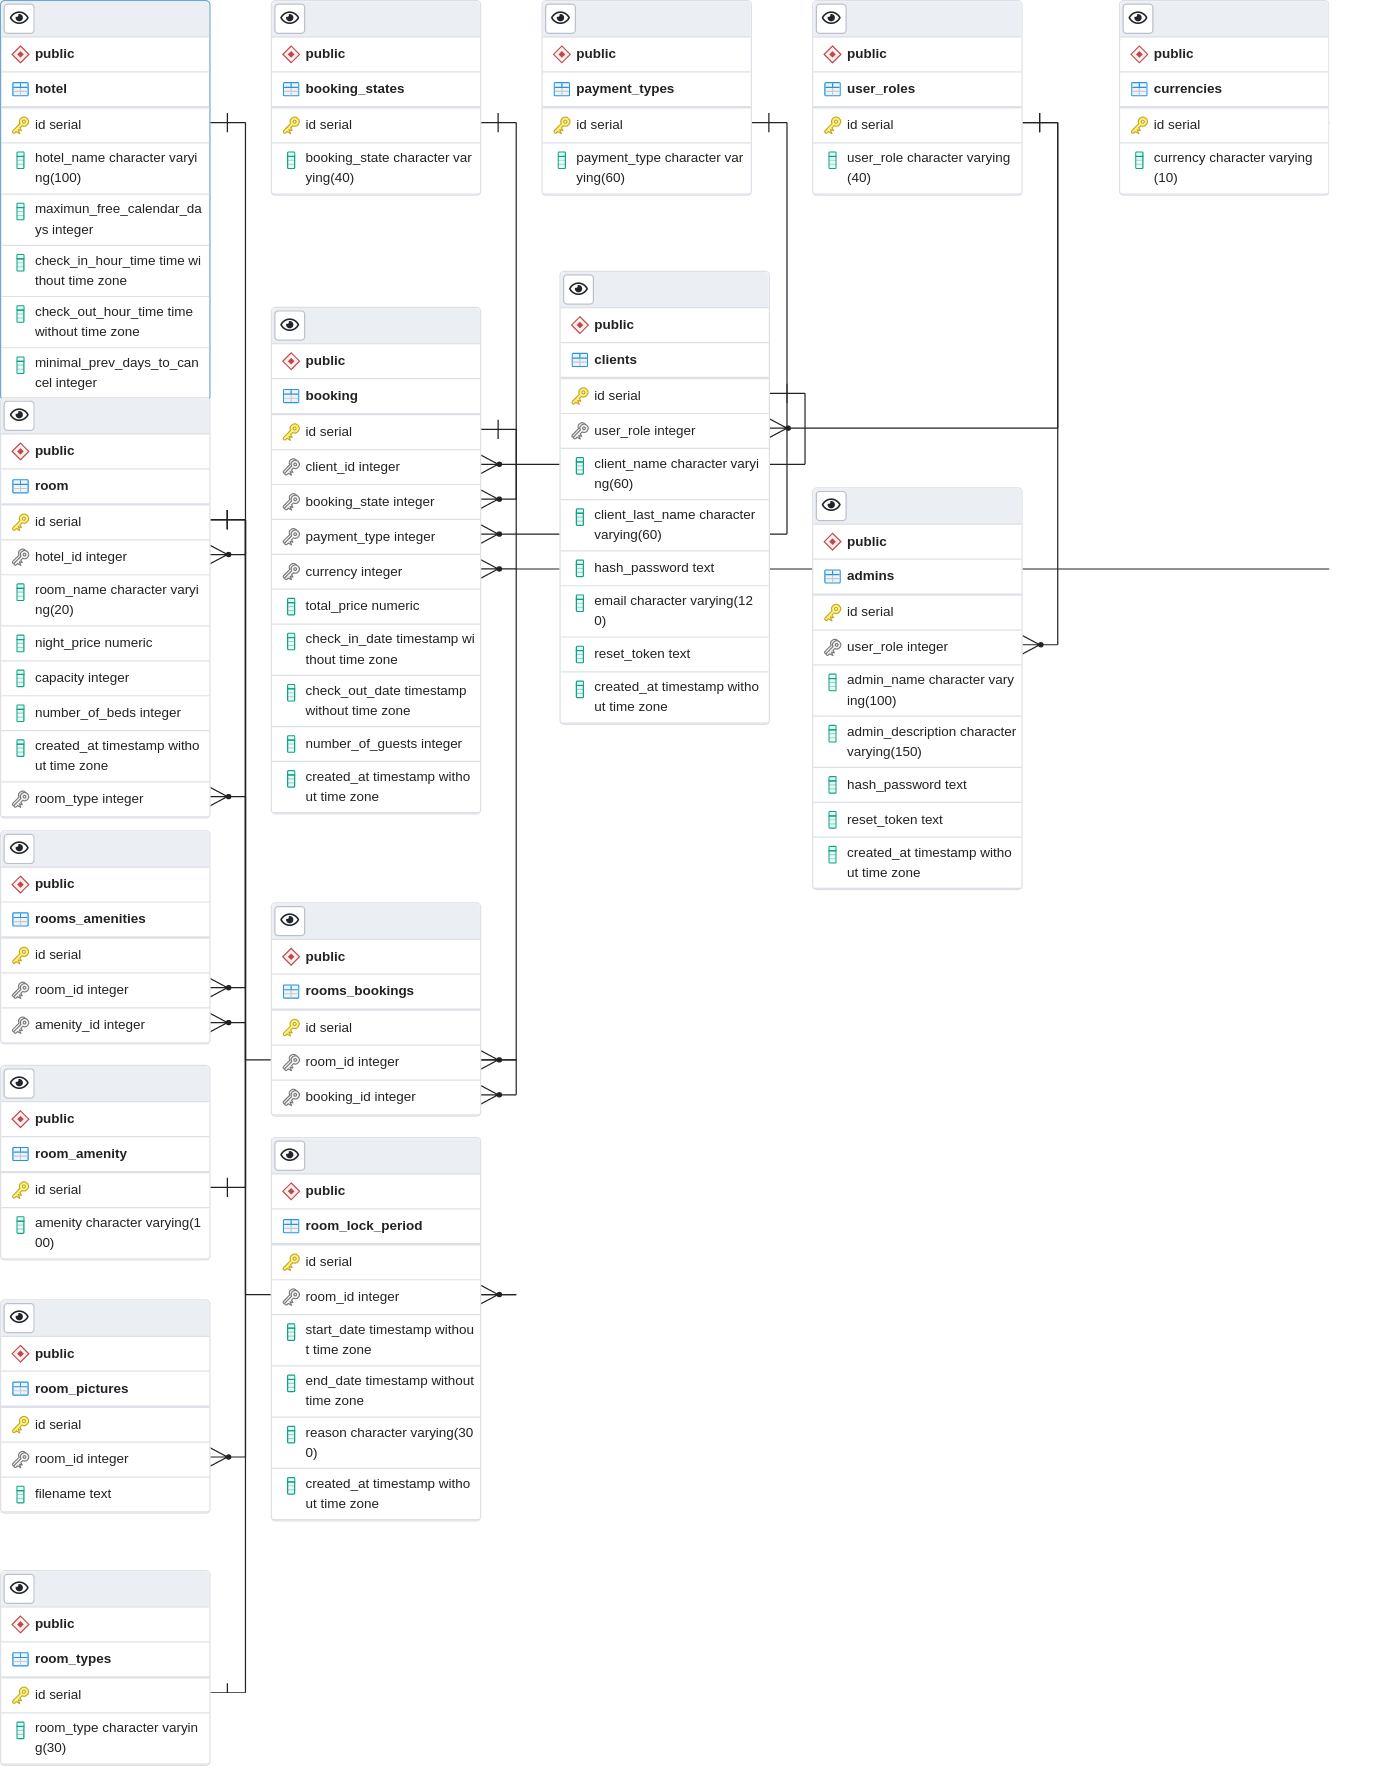
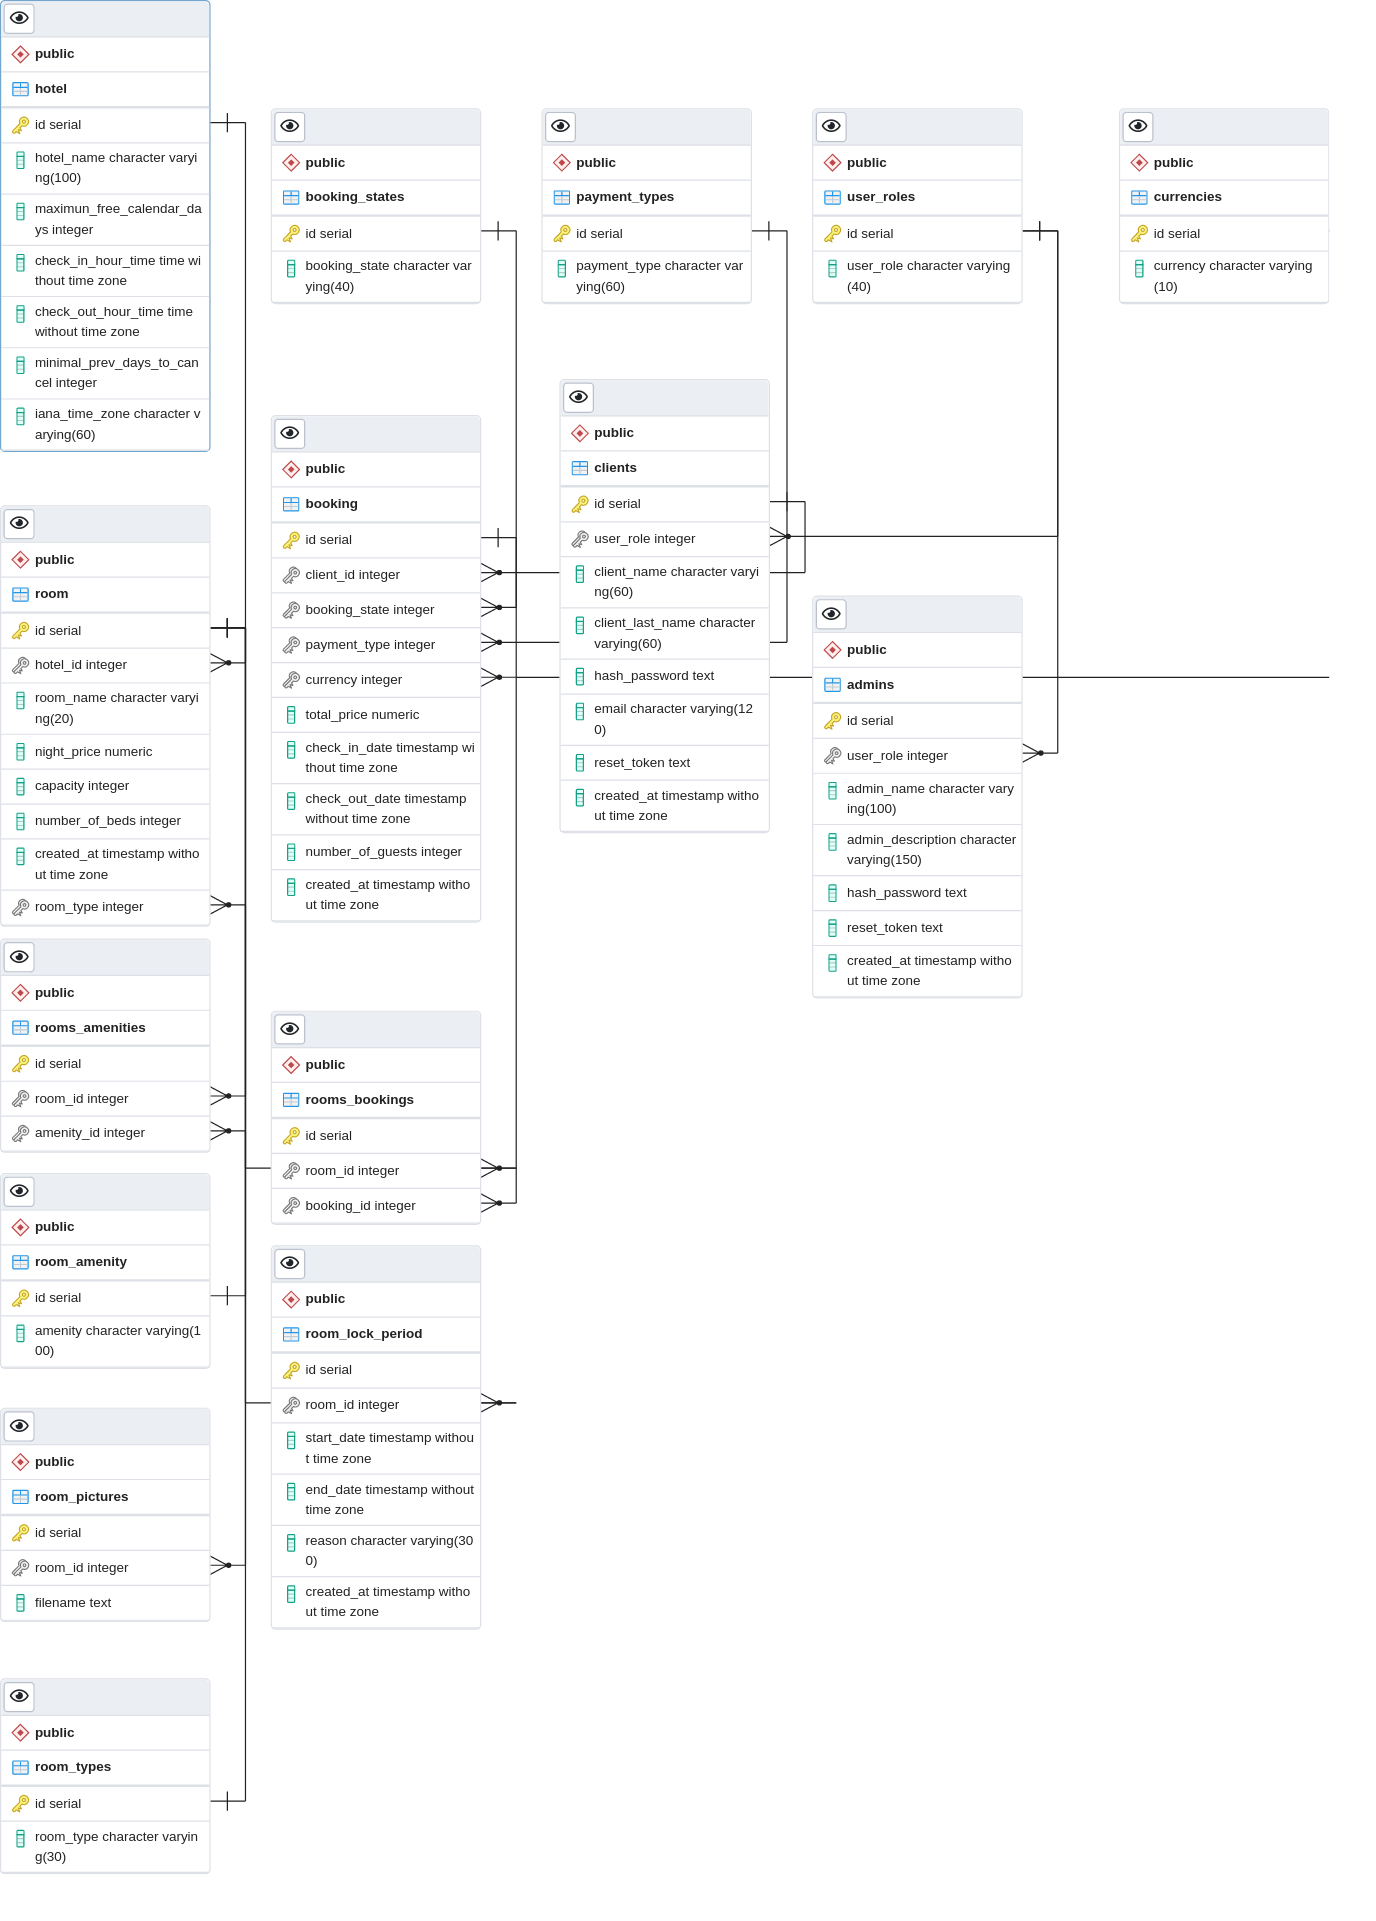
[feature] (graphql) Hotel TimeZone Integration

diff --git a/test/dao/HotelDao.test.js b/test/dao/HotelDao.test.js
@@ -8,7 +8,7 @@ import {
     updateHotelDaysToCancel,
     getHotelById,
 } from "dao/HotelDao";
-import { createHotel as createHotelS } from "~/services/hotel"
+import { createHotel as createHotelS, updateHotelTimeZone } from "~/services/hotel"
 const { createAdmin, deleteAdminById } = require("dao/UserDao");
 const { mapTimeToDateTime } = require("dao/utils");
 import { USER_ROLES } from '~/dao/DBConstans'
@@ -26,6 +26,7 @@ describe(
             check_in_hour_time: mapTimeToDateTime({ hours: 13, mins: 30 }),
             check_out_hour_time: mapTimeToDateTime({ hours: 12, mins: 0 }),
             minimal_prev_days_to_cancel: 5,
+            iana_time_zone:'America/Lima'
         }
 
         var updateHotelInput = {
@@ -34,6 +35,7 @@ describe(
             check_in_hour_time: mapTimeToDateTime({ hours: 5, mins: 30 }),
             check_out_hour_time: mapTimeToDateTime({ hours: 10, mins: 0 }),
             minimal_prev_days_to_cancel: 10,
+            iana_time_zone:'America/Lima'
         }
 
         var fullAdminData = {
@@ -69,6 +71,7 @@ describe(
                 expect(fooHotel.check_in_hour_time).toBeDefined();
                 expect(fooHotel.check_out_hour_time).toBeDefined();
                 expect(fooHotel.minimal_prev_days_to_cancel).toBeDefined();
+                expect(fooHotel.iana_time_zone).toBeDefined();
                 expect(dbError).toBe(null);
             }
         );
@@ -108,6 +111,9 @@ describe(
                     updatedFooHotel = await updateHotelFreeCalendarDays(fooHotel.id, 90);
                     // minimal_prev_days_to_cancel
                     updatedFooHotel = await updateHotelDaysToCancel(fooHotel.id, 10);
+                    // iana_time_zone
+                    updatedFooHotel = await updateHotelTimeZone(fooHotel.id, 'America/Havana');
+
 
                     // clean
                     await deleteHotelById(fooHotel.id);
@@ -152,6 +158,7 @@ describe(
                 expect(hotel.check_out_hour_time).toBe(hotelData.check_out_hour_time.toUTCString())
                 expect(hotel.maximun_free_calendar_days).toBe(hotelData.maximun_free_calendar_days)
                 expect(hotel.minimal_prev_days_to_cancel).toBe(hotelData.minimal_prev_days_to_cancel)
+                expect(hotel.iana_time_zone).toBe(hotelData.iana_time_zone)
             }
         )
 

diff --git a/src/dao/HotelDao.js b/src/dao/HotelDao.js
@@ -2,7 +2,7 @@ import { prisma } from 'dao/PrismaClient.js'
 import { isValidString } from 'utils'
 
 import { DB_UNIQUE_CONSTRAINT_ERROR, NOT_FOUND_RECORD_ERROR } from './Errors'
-import { isValidHotelName, isValidHourTime, isValidId, isValidInteger, mapHotelResToHotel } from './utils'
+import { isValidHotelName, isValidHourTime, isValidId, isValidInteger, isValidTimeZone, mapHotelResToHotel } from './utils'
 
 
 
@@ -21,6 +21,7 @@ export async function createHotel({
     check_in_hour_time, // hour_time { hour: 0 - 24 , min: 0 - 59 }
     check_out_hour_time,
     minimal_prev_days_to_cancel,
+    iana_time_zone
 }) {
     // validate
     if (!isValidHotelName(hotel_name)) {
@@ -42,6 +43,10 @@ export async function createHotel({
         throw new Error(`Non valid minimal_prev_days_to_cancel integer provided: ${minimal_prev_days_to_cancel}`)
     }
 
+    if (!isValidTimeZone(iana_time_zone)) {
+        throw new Error('Non Valid Time Zone provided')
+    }
+
 
 
     try {
@@ -53,6 +58,7 @@ export async function createHotel({
                 minimal_prev_days_to_cancel,
                 check_in_hour_time,
                 check_out_hour_time,
+                iana_time_zone
             }
         })
 
@@ -240,6 +246,32 @@ export async function updateHotelDaysToCancel(hotelId, minimal_prev_days_to_canc
             },
             data: {
                 minimal_prev_days_to_cancel
+            }
+        })
+
+        return mapHotelResToHotel(updatedRes);
+    } catch (error) {
+        throw error;
+    }
+}
+
+export async function updateHotelTimeZone(hotelId, iana_time_zone) {
+
+    // validate
+    if (!isValidId(hotelId)) {
+        throw new Error('Non Valid Hotel Id');
+    }
+    if (!isValidTimeZone(iana_time_zone)) {
+        throw new Error('Non Valid Time Zone provided')
+    }
+
+    try {
+        var updatedRes = await prisma.hotel.update({
+            where: {
+                id: hotelId
+            },
+            data: {
+                iana_time_zone
             }
         })
 

diff --git a/src/server/graphql/resolvers.js b/src/server/graphql/resolvers.js
@@ -15,7 +15,8 @@ import {
     updateHotelFreeCalendarDays,
     updateHotelDaysToCancel,
     updateHotelCheckInTime,
-    updateHotelCheckOutTime
+    updateHotelCheckOutTime,
+    updateHotelTimeZone
 } from "services/hotel";
 
 export const resolvers = {
@@ -169,6 +170,7 @@ export const resolvers = {
                         check_in_hour_time,
                         check_out_hour_time,
                         minimal_prev_days_to_cancel,
+                        iana_time_zone
                     } = args.input;
 
                     // sanitation
@@ -181,6 +183,7 @@ export const resolvers = {
                             check_in_hour_time: mapTimeToDateTime(check_in_hour_time),
                             check_out_hour_time: mapTimeToDateTime(check_out_hour_time),
                             minimal_prev_days_to_cancel,
+                            iana_time_zone
                         }
 
                         var hotel = await createHotel({
@@ -290,6 +293,26 @@ export const resolvers = {
                     try {
                         check_out_hour_time = mapTimeToDateTime(check_out_hour_time);
                         var hotel = await updateHotelCheckOutTime(hotel_id, check_out_hour_time);
+                        return hotel;
+                    } catch (error) {
+                        throw error;
+                    }
+
+                }
+            )
+        ),
+
+        updateHotelTimeZone: authenticated(
+            authorized(
+                USER_ROLES.FULL_ADMIN.user_role,
+                async (root, args, ctx) => {
+                    var {
+                        hotel_id,
+                        iana_time_zone,
+                    } = args.input;
+                    try {
+
+                        var hotel = await updateHotelTimeZone(hotel_id, iana_time_zone);
                         return hotel;
                     } catch (error) {
                         throw error;

diff --git a/src/services/hotel.js b/src/services/hotel.js
@@ -7,7 +7,8 @@ import {
     updateHotelCheckOutTime as updateHotelCheckOutTimeDao,
     updateHotelFreeCalendarDays as updateHotelFreeCalendarDaysDao,
     updateHotelDaysToCancel as updateHotelDaysToCancelDao,
-    getHotelById as getHotelByIdDao
+    getHotelById as getHotelByIdDao,
+    updateHotelTimeZone as updateHotelTimeZoneDao
 } from "dao/HotelDao";
 import { getAdminById } from "dao/UserDao";
 import { isFullAdmin } from "dao/utils";
@@ -18,7 +19,8 @@ export async function createHotel({
     maximun_free_calendar_days,
     check_in_hour_time,
     check_out_hour_time,
-    minimal_prev_days_to_cancel
+    minimal_prev_days_to_cancel,
+    iana_time_zone
 }) {
 
     // check for current userExecuting has autorization to 
@@ -39,7 +41,8 @@ export async function createHotel({
             maximun_free_calendar_days,
             check_in_hour_time,
             check_out_hour_time,
-            minimal_prev_days_to_cancel
+            minimal_prev_days_to_cancel,
+            iana_time_zone
         })
 
         return hotel
@@ -72,6 +75,12 @@ export async function updateHotelFreeCalendarDays(hotelId, maximun_free_calendar
 export async function updateHotelDaysToCancel(hotelId, minimal_prev_days_to_cancel) {
     return updateHotelDaysToCancelDao(hotelId, minimal_prev_days_to_cancel)
 }
+
+// 
+export async function updateHotelTimeZone(hotelId, iana_time_zone) {
+    return updateHotelTimeZoneDao(hotelId, iana_time_zone)
+}
+
 
 export async function getHotelById(hotelId) {
     return getHotelByIdDao(hotelId)

diff --git a/src/dao/utils.js b/src/dao/utils.js
@@ -69,6 +69,11 @@ export function isFullAdmin(user_role) {
 
 }
 
+// ---------------
+// VAlidators 
+// ---------------
+
+
 export function isValidEmail(email) {
     const emailSchema = Joi.string().email().required();
     const { error, value } = emailSchema.validate(
@@ -168,6 +173,20 @@ export function isValidHourTime({ hours = 0, mins = 0 }) {
     return !h_error && !m_error;
 }
 
+export function isValidTimeZone(iana_time_zone) {
+    var tzSchema = Joi.string().trim().required();
+    const { error, value } = tzSchema.validate(
+        iana_time_zone,
+        { presence: 'required', convert: false }
+    );
+
+    return !error;
+}
+
+
+// ---------------
+// Mapers 
+// ---------------
 /**
  * 
  * Maps a `time` obj to a Default Date with the `hour-time`
@@ -188,6 +207,7 @@ export function mapHotelResToHotel({
     minimal_prev_days_to_cancel,
     check_in_hour_time,
     check_out_hour_time,
+    iana_time_zone,
 }) {
     return {
         id,
@@ -195,6 +215,7 @@ export function mapHotelResToHotel({
         maximun_free_calendar_days,
         minimal_prev_days_to_cancel,
         check_in_hour_time: check_in_hour_time.toUTCString(),
-        check_out_hour_time: check_out_hour_time.toUTCString()
+        check_out_hour_time: check_out_hour_time.toUTCString(),
+        iana_time_zone
     }
 }

diff --git a/src/server/graphql/typeDefs.js b/src/server/graphql/typeDefs.js
@@ -80,6 +80,7 @@ export const typeDefinitions = gql`
     check_in_hour_time:           String!
     check_out_hour_time:          String!
     minimal_prev_days_to_cancel:  Int!
+    iana_time_zone:               String!
   }
 
   input HourTime {
@@ -93,6 +94,7 @@ export const typeDefinitions = gql`
     minimal_prev_days_to_cancel:  Int!
     check_in_hour_time:           HourTime!
     check_out_hour_time:          HourTime!
+    iana_time_zone:               String!
   }
 
   input getHotelInput {
@@ -125,6 +127,10 @@ export const typeDefinitions = gql`
     check_out_hour_time:           HourTime!
   }
 
+  input UpdateHotelTimeZone {
+    hotel_id:                     Int!
+    iana_time_zone:               String!
+  }
 
 
   ##
@@ -148,7 +154,7 @@ export const typeDefinitions = gql`
     updateHotelDaysToCancel(input: UpdateHotelDaysToCancel!): Hotel!
     updateHotelCheckIn(input: UpdateHotelCheckIn!): Hotel!
     updateHotelCheckOut(input: UpdateHotelCheckOut!): Hotel!
-    
+    updateHotelTimeZone(input: UpdateHotelTimeZone!): Hotel!
   }
 
 
